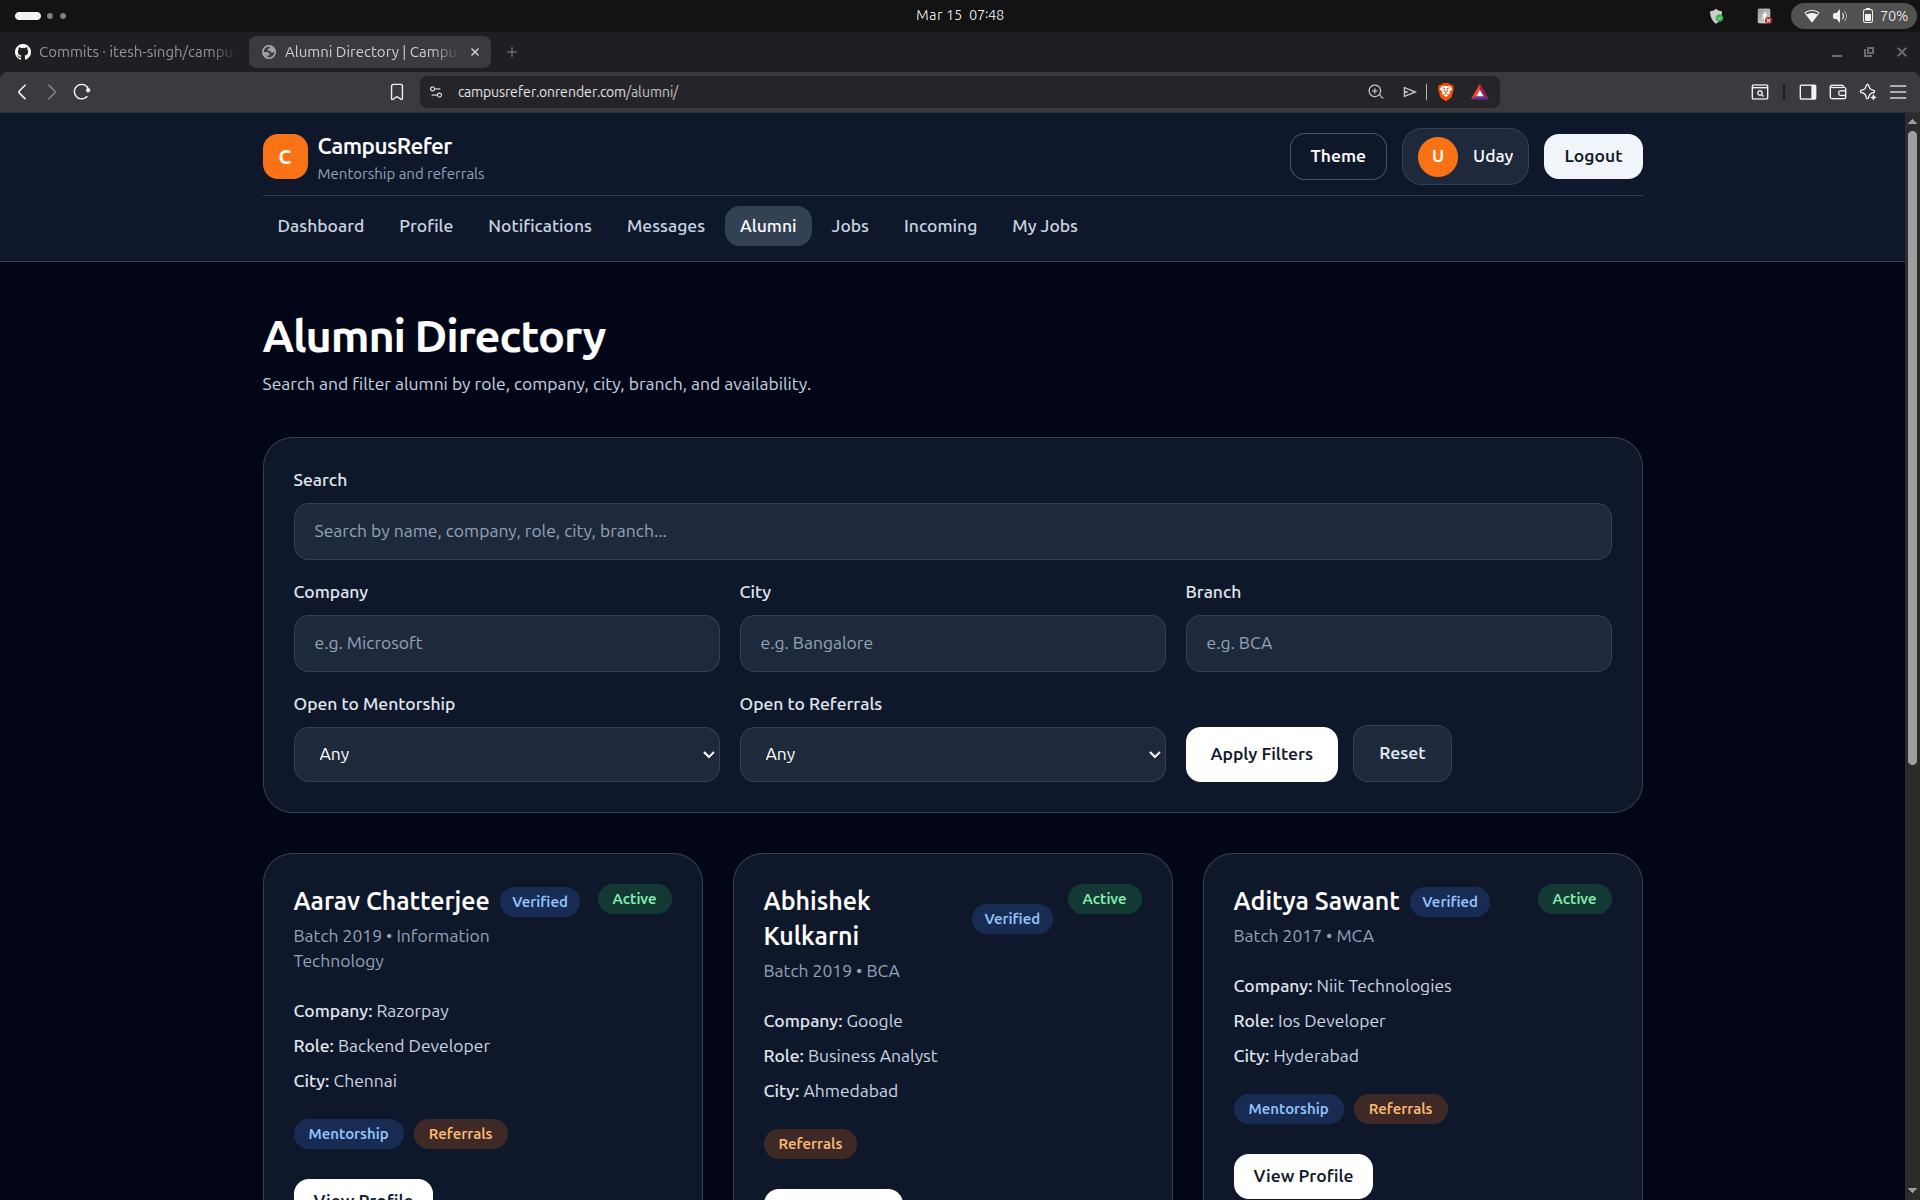
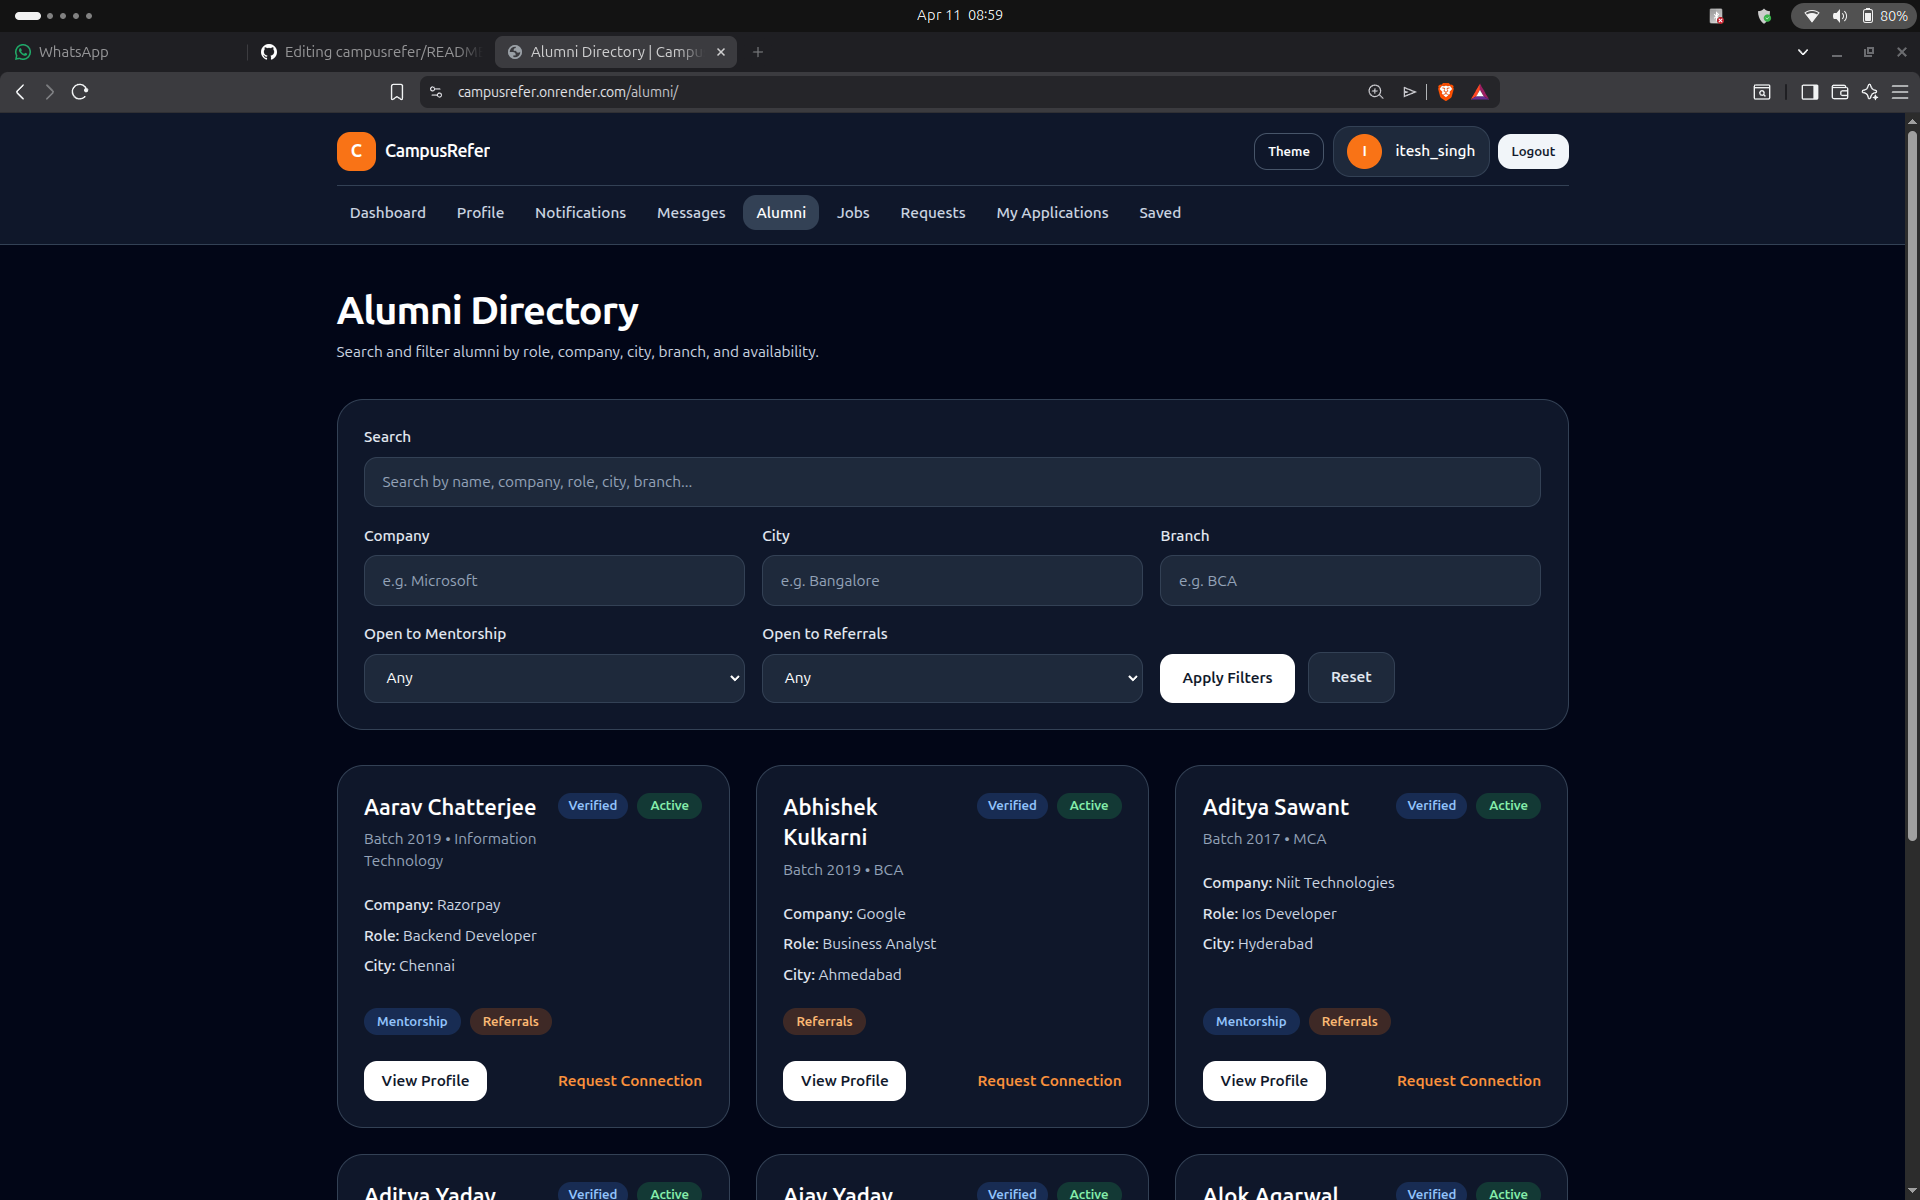
docs: update README with architecture, challenges, and fixes

diff --git a/README.md b/README.md
@@ -16,10 +16,8 @@
 
 <br/>
 
-| Role | Username | Password |
-|------|----------|----------|
-| 🎓 Alumni | `Uday` | `Test@1234` |
-| 👨🎓 Student | `Ayush05` | `Test@1234` |
+> ⚠ Demo credentials are not publicly shared.  
+> Please register a new account to explore the platform features.
 
 </div>
 
@@ -44,13 +42,75 @@ It is a mini LinkedIn built specifically for a college alumni network — studen
 
 ## ✨ Key Highlights
 
-- ⚡ **Real-time messaging** between students and alumni using WebSockets
+- ⚡ **Real-time notifications and messaging** using **Django Channels, Redis, and WebSockets**
 - 🔐 **Role-based access** — completely separate flows for students, alumni, and admin
 - 📧 **Email verification and password reset** using **Gmail API + OAuth 2.0**
 - 📊 **Custom admin panel** with live analytics, charts, and full platform moderation
 - 🔌 **REST API** with JWT authentication and auto-generated Swagger documentation
 - 🚀 **Production deployed** on Render with PostgreSQL and Redis
 - 🌱 **Seed command** — generates 500 students, 100 alumni, 200+ jobs in one command
+
+---
+
+## 🏗 Architecture / Workflow
+
+### Student to Alumni Connection Flow
+1. Student searches alumni using filters such as company, city, branch, and availability
+2. Student sends a mentorship or referral request with a personal message
+3. Alumni accepts or rejects the request
+4. Once accepted, direct messaging becomes available
+5. Both users receive notifications for request activity and updates
+
+### Job Application Flow
+1. Alumni posts a job opportunity
+2. Students browse jobs and apply with their resume
+3. Alumni reviews applicants for each job
+4. Alumni updates the application status
+5. Student receives a notification when the status changes
+
+### Real-Time Notification Flow
+1. User performs an action such as sending a request or message
+2. Django processes the action
+3. Event is sent to **Redis**, which acts as the channel layer
+4. Django Channels broadcasts the event over **WebSockets**
+5. The frontend updates notification and message badges instantly without refresh
+
+---
+
+## 🛡 Security & Validation
+
+- Role-based access control for **Student, Alumni, and Admin**
+- Email verification required before account activation
+- Resume upload validation for job applications
+- Protected routes and restricted workflows based on user role
+- Messaging enabled only after a request is accepted
+- JWT authentication for protected API endpoints
+- Safe fallback when real-time broadcast fails, so notification creation does not crash the main request flow
+
+---
+
+## 🧩 Challenges and Fixes
+
+- **Real-time notifications were not updating without refresh**  
+  Fixed by implementing **Django Channels + Redis + WebSockets** and pushing live badge updates to the frontend.
+
+- **Message and notification badges were mixing counts**  
+  Fixed by separating WebSocket event categories for notifications and messages.
+
+- **Redis/WebSocket failure caused production request crashes**  
+  Fixed by adding a safe fallback so notifications are still saved in the database even if real-time broadcast fails.
+
+- **Homepage featured alumni cards were routing to the alumni list page instead of the correct profile**  
+  Fixed by linking dynamic homepage alumni cards to the correct alumni detail route.
+
+- **Alumni directory card alignment and action placement were unstable**  
+  Fixed by improving layout structure, consistent card height, and button placement.
+
+- **Login success toast overlapped page content and stayed hard to read in dark mode**  
+  Fixed by improving toast positioning, width, and background visibility.
+
+- **Resume links were not working correctly on deployed pages**  
+  Fixed by correcting deployed file access behavior for uploaded resumes.
 
 ---
 
@@ -260,6 +320,27 @@ Base URL: `/api/` · Swagger Docs: `/api/docs/` · ReDoc: `/api/redoc/`
 
 ---
 
+## 🔐 API Authentication Example
+
+### Get JWT Token
+```http
+POST /api/token/
+Content-Type: application/json
+
+{
+  "username": "your_username",
+  "password": "your_password"
+}
+```
+
+### Use Token on Protected Endpoint
+```http
+GET /api/profile/
+Authorization: Bearer <your_access_token>
+```
+
+---
+
 ## 🔑 Environment Variables
 
 See `.env.example` for all required variables:
@@ -281,6 +362,25 @@ GOOGLE_GMAIL_REDIRECT_URI   Gmail API OAuth callback URL
 GOOGLE_GMAIL_REFRESH_TOKEN  Gmail API refresh token
 GOOGLE_GMAIL_SENDER         Gmail address used to send emails
 ```
+
+---
+
+## 🎥 Demo Video
+
+Add your project walkthrough video link here for recruiters and reviewers who want a quick end-to-end platform demo.
+
+**Example:**  
+`[Watch Demo Video](your-video-link-here)`
+
+---
+
+## 🚧 Future Improvements
+
+- Toast popups for new real-time notifications
+- Real-time read-status sync improvements in messaging
+- Better search ranking and alumni discovery experience
+- Performance optimization for larger datasets
+- Stronger moderation and reporting tools
 
 ---
 
